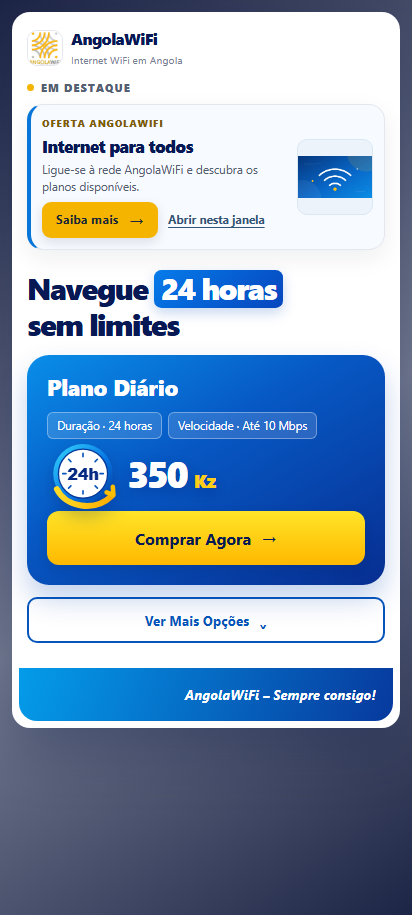
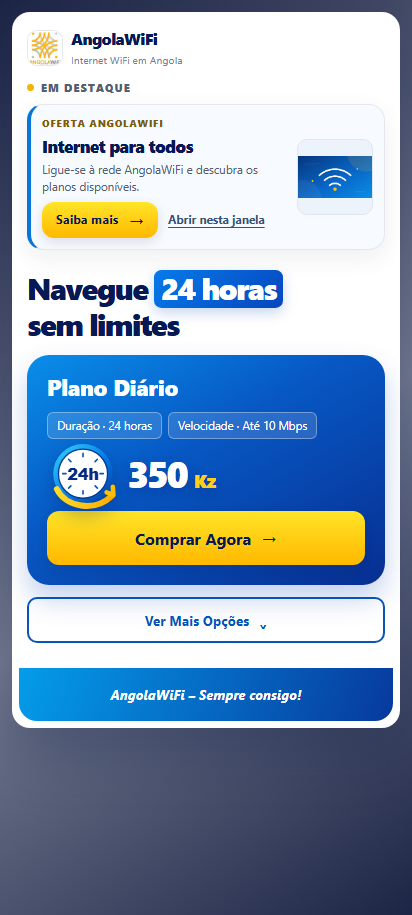
Align portal campaign buttons and center slogan

Changed region(s): [[0.2621, 0.7344, 0.9029, 0.765], [0.0874, 0.2142, 0.3786, 0.2448]]

diff --git a/loja/resources/views/store/portal-wifi-ad.blade.php b/loja/resources/views/store/portal-wifi-ad.blade.php
@@ -26,6 +26,8 @@
       -moz-osx-font-smoothing: grayscale;
       --brand: #f4b400;
       --brand-dark: #d99a00;
+      --button-yellow: linear-gradient(180deg, #ffe528, #ffb800);
+      --button-yellow-hover: linear-gradient(180deg, #ffdc20, #e9a600);
       --text-dark: #101828;
       --text-muted: #526071;
       --text-light: #758195;
@@ -140,9 +142,9 @@
       gap: 10px;
       padding: 0 14px;
       border: 0;
-      border-radius: 9px;
-      color: #1d2735;
-      background: var(--brand);
+      border-radius: 12px;
+      color: #071955;
+      background: var(--button-yellow);
       box-shadow: 0 4px 12px rgba(16,24,40,.12);
       font-size: .78rem;
       font-weight: 750;
@@ -152,7 +154,8 @@
       transition: background .18s ease, transform .18s ease;
     }
 
-    .button:hover { transform: translateY(-1px); background: #e6a900; }
+    .button:hover { transform: translateY(-1px); background: var(--button-yellow-hover); }
+    .button:focus-visible { outline: 3px solid #0755ba; outline-offset: 3px; }
     .button__arrow { font-size: 1.15rem; line-height: 1; }
     .campaign__fallback { color: #345477; font-size: .73rem; font-weight: 700; text-decoration-thickness: 1px; text-underline-offset: 3px; }
 
@@ -175,7 +178,7 @@
     .plan__clock { display: block; width: clamp(82px, 30%, 175px); height: auto; flex: 0 0 auto; filter: drop-shadow(0 7px 9px rgba(0,22,92,.28)); }
     .plan__price { min-width: 0; margin: 15px 0 20px; color: #fff; font-size: clamp(2.5rem, 9vw, 6.5rem); font-weight: 850; letter-spacing: -.07em; line-height: 1; text-shadow: 0 4px 12px rgba(0,24,96,.25); white-space: nowrap; }
     .plan__price span { color: #ffcf18; font-size: .5em; font-weight: 800; letter-spacing: 0; }
-    .plan__button { width: 100%; min-height: 54px; margin-top: auto; border-radius: 12px; color: #071955; background: linear-gradient(180deg, #ffe528, #ffb800); font-size: 1rem; }
+    .plan__button { width: 100%; min-height: 54px; margin-top: auto; font-size: 1rem; }
     .more-options { display: flex; width: 100%; min-height: 46px; align-items: center; justify-content: center; gap: 10px; margin-top: 12px; border: 2px solid #0755ba; border-radius: 10px; color: #0755ba; background: #fff; font-size: .84rem; font-weight: 750; text-align: center; text-decoration: none; }
     .more-options:hover { background: #eff6ff; }
 
@@ -183,7 +186,7 @@
     .empty-state h1 { margin: 0; color: var(--text-dark); font-size: 1.05rem; }
     .empty-state p { margin: 7px 0 0; color: var(--text-muted); font-size: .88rem; line-height: 1.5; }
 
-    .page-note { margin: 25px -8px -8px; padding: 17px; border-radius: 0 0 18px 18px; color: #fff; background: linear-gradient(110deg, #049cea, #07399d); font-size: .84rem; font-style: italic; font-weight: 750; line-height: 1.4; text-align: right; }
+    .page-note { margin: 25px -8px -8px; padding: 17px; border-radius: 0 0 18px 18px; color: #fff; background: linear-gradient(110deg, #049cea, #07399d); font-size: .84rem; font-style: italic; font-weight: 750; line-height: 1.4; text-align: center; }
 
     @media (max-width: 420px) {
       body { padding: 12px 12px 20px; }
